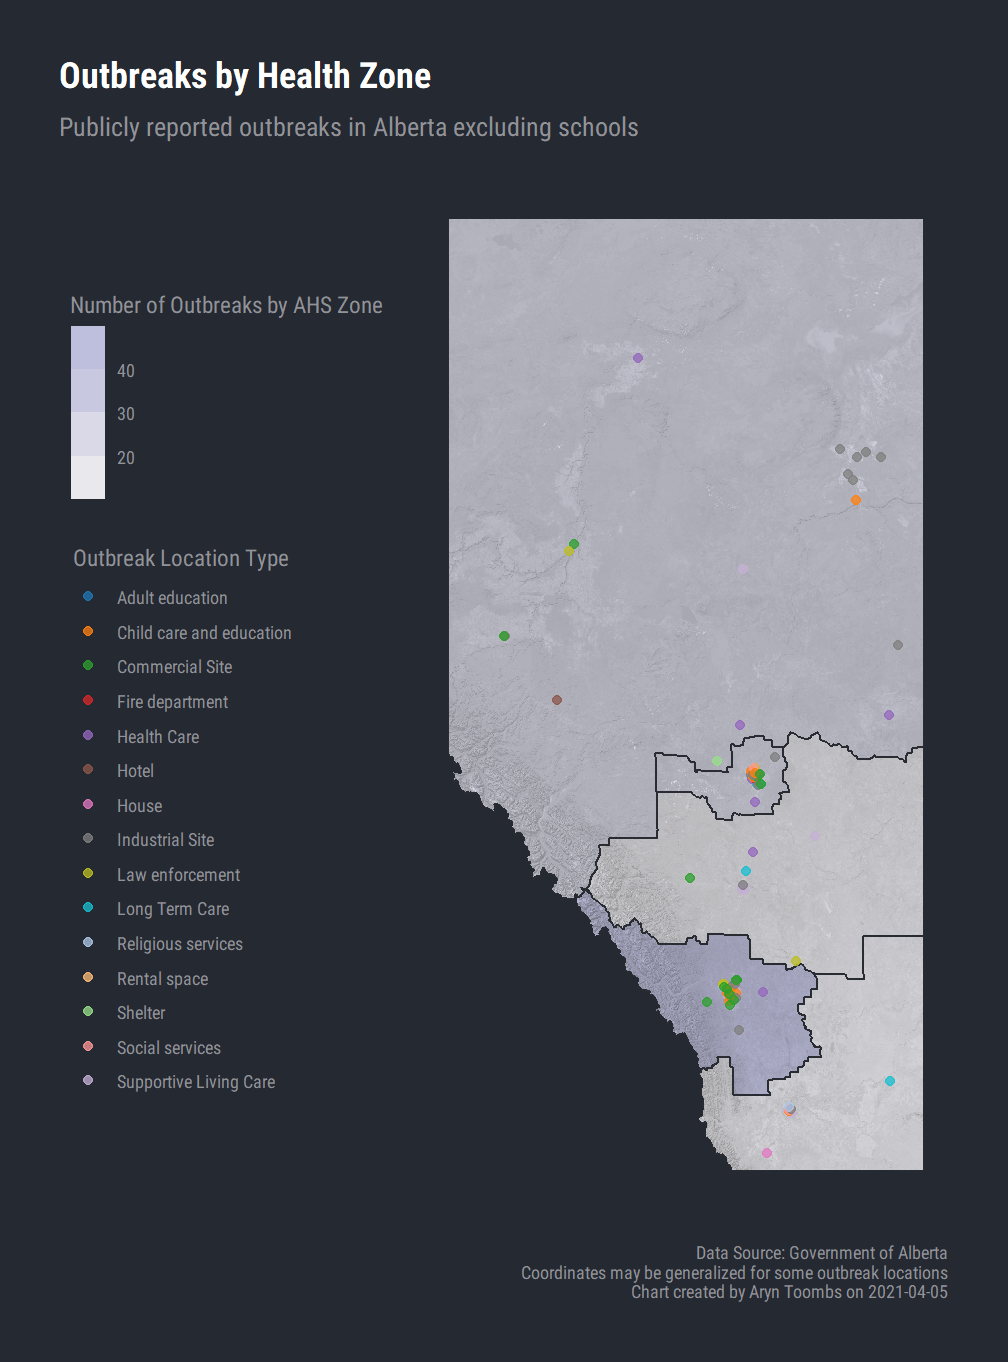
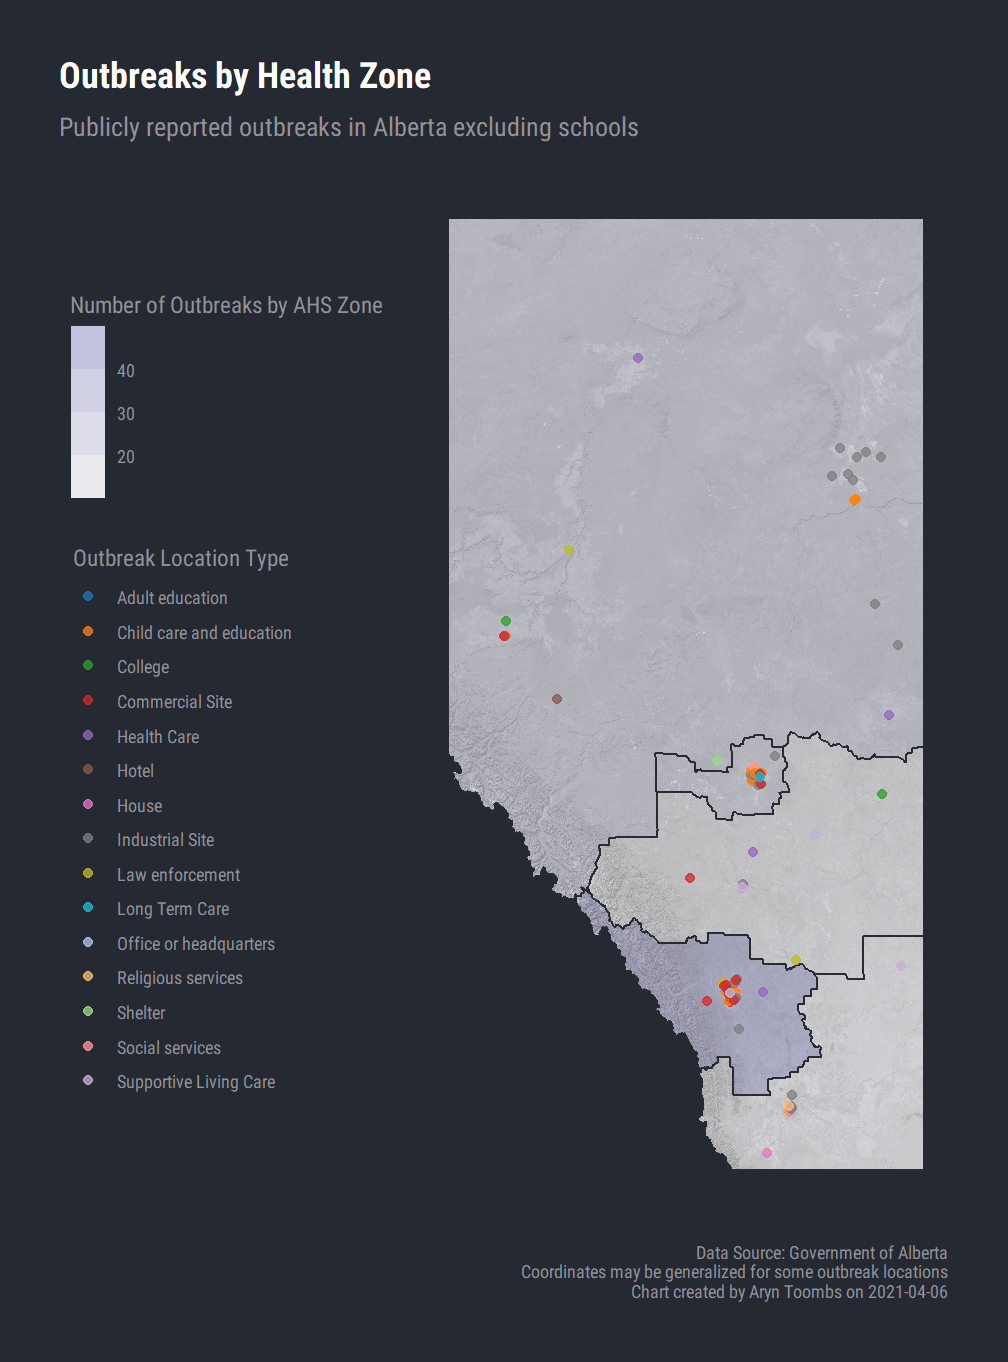
Website

diff --git a/outbreaks/index.html b/outbreaks/index.html
@@ -128,7 +128,7 @@
       Calgary Zone
     </div>
     <div class="row box-bottom justify-content-center">
-      <h4>42</h4>
+      <h4>50</h4>
     </div>
   </div>
   <div class="col-sm ml-1 mr-1">
@@ -136,7 +136,7 @@
       Edmonton Zone
     </div>
     <div class="row box-bottom justify-content-center">
-      <h4>25</h4>
+      <h4>24</h4>
     </div>
   </div>
   <div class="col-sm ml-1 mr-1">
@@ -144,7 +144,7 @@
       South Zone
     </div>
     <div class="row box-bottom justify-content-center">
-      <h4>11</h4>
+      <h4>15</h4>
     </div>
   </div>
   <div class="col-sm ml-1 mr-1">
@@ -152,7 +152,7 @@
       Central Zone
     </div>
     <div class="row box-bottom justify-content-center">
-      <h4>12</h4>
+      <h4>11</h4>
     </div>
   </div>
   <div class="col-sm ml-1 mr-1">
@@ -160,12 +160,12 @@
       North Zone
     </div>
     <div class="row box-bottom justify-content-center">
-      <h4>21</h4>
+      <h4>24</h4>
     </div>
   </div>
 </div>
 <div class="row mb-3 pr-1 pt-1 justify-content-end">
-  <p class="m-1"><i class="bi bi-info-circle-fill"></i> Covid-19 outbreaks (not including schools, see below) current as of Mon, Apr 05, 2021. AHS data updated on Tuesdays and Fridays.</p>
+  <p class="m-1"><i class="bi bi-info-circle-fill"></i> Covid-19 outbreaks (not including schools, see below) current as of Tue, Apr 06, 2021. AHS data updated on Tuesdays and Fridays.</p>
 </div>
   <div class="row pl-3">
     <h4 class="body-display">Outbreak Charts</h4>
